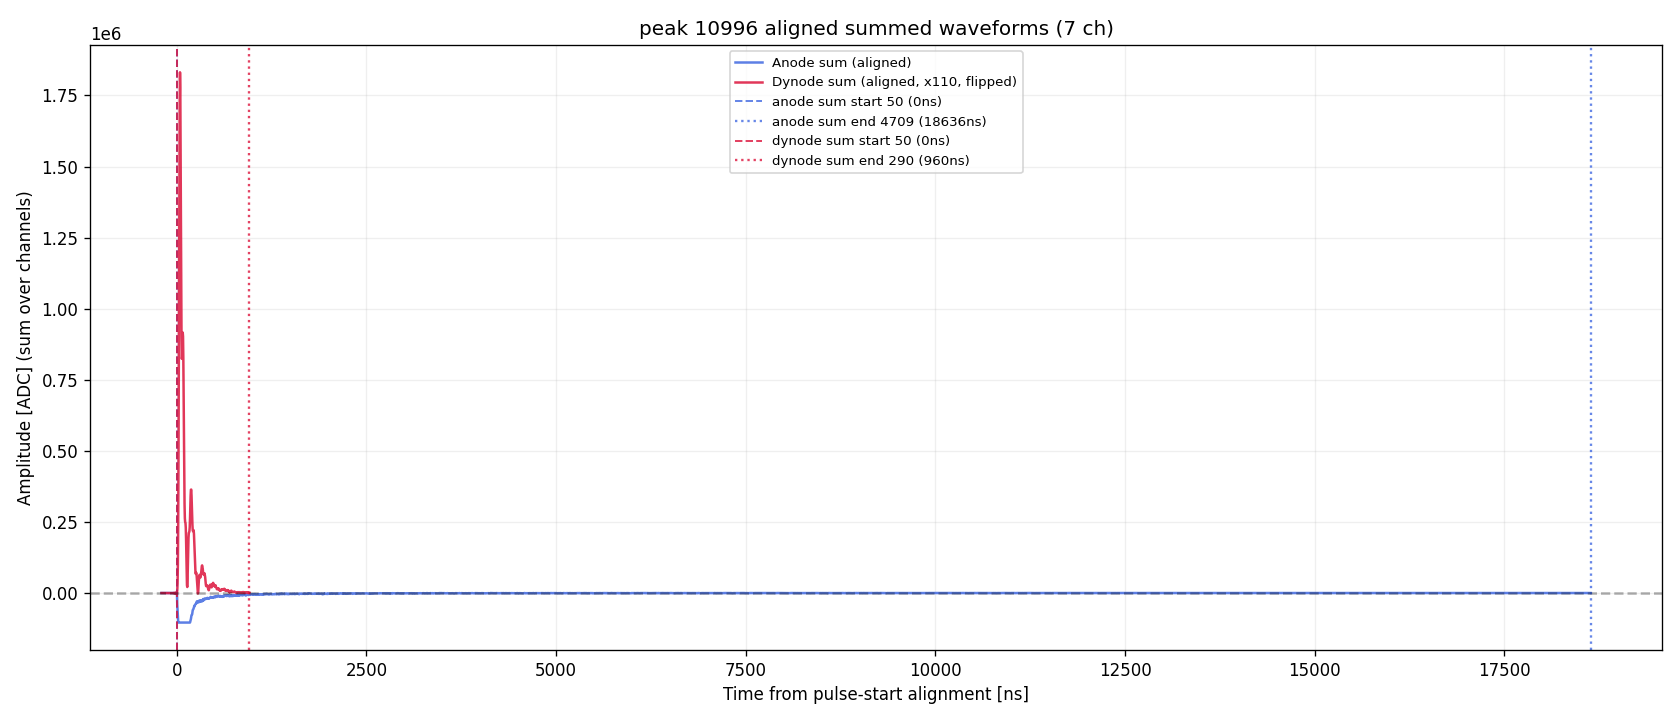
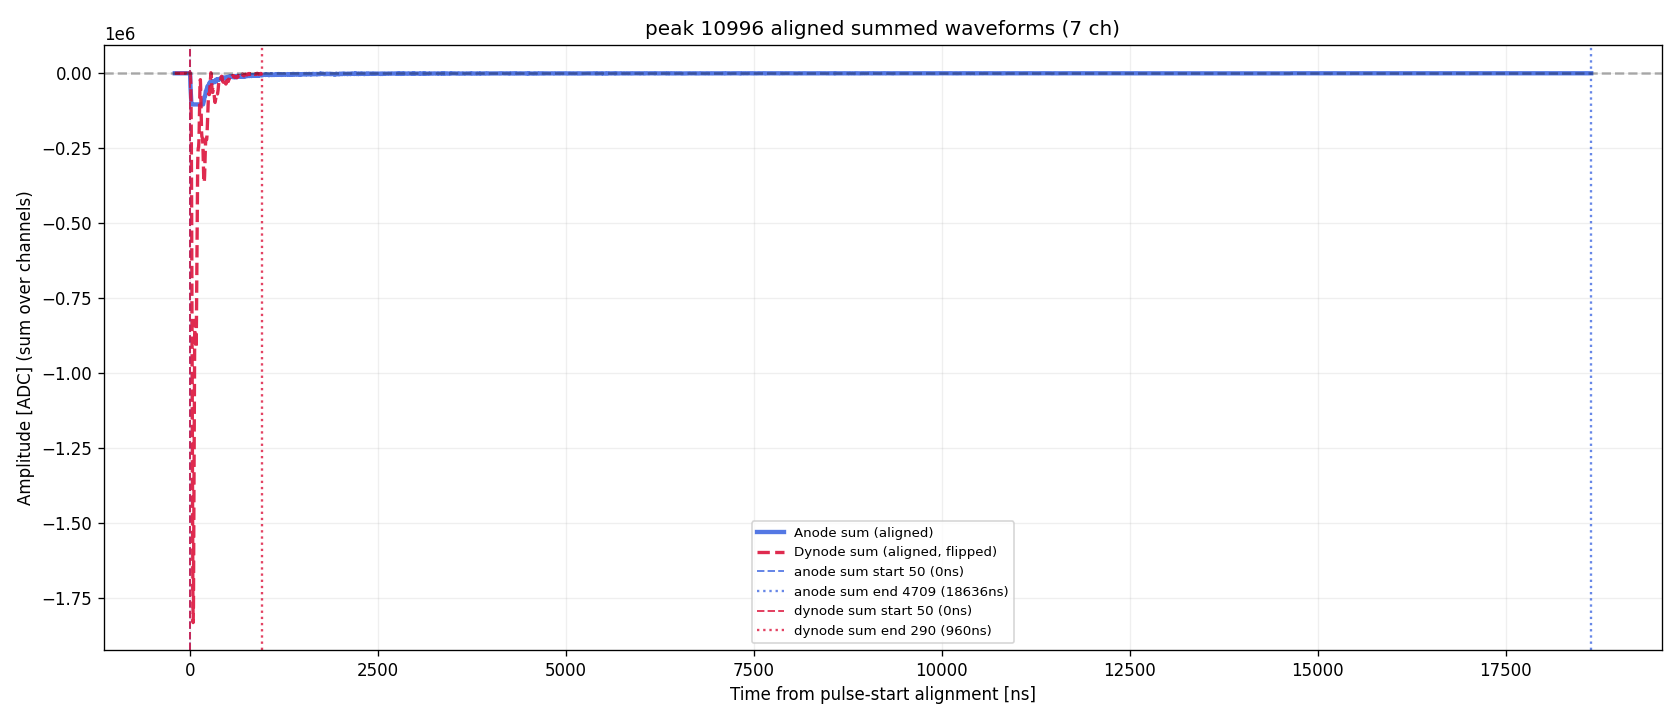
Plot: candidate sum waveforms - anode solid bold, dynode dashed flipped

diff --git a/src/muon_analysis/plotting/waveforms.py b/src/muon_analysis/plotting/waveforms.py
@@ -693,15 +693,16 @@ def plot_peak_sum_waveform(peak, anode_sum, dynode_sum, output_dir, run_id,
     path = plot_dir / f"peak{peak.peaks_id:03d}_sum_compare{suffix}_run_{run_id}.png"
 
     fig, ax = plt.subplots(figsize=(14, 6))
-    for arr, color, label in ((anode_sum, "royalblue", "Anode sum (aligned)"),
-                              (dynode_sum, "crimson",
-                               "Dynode sum (aligned, x110, flipped)")):
+    for arr, color, label, ls, lw in (
+            (anode_sum, "royalblue", "Anode sum (aligned)", "-", 2.6),
+            (dynode_sum, "crimson", "Dynode sum (aligned, flipped)", "--", 2.0)):
         if arr is None:
             continue
         if label.startswith("Dynode") and dynode_invert:
             arr = -arr
         x = (np.arange(len(arr)) - ref) * sample_interval_ns
-        ax.plot(x, arr, color=color, alpha=0.85, label=label)
+        ax.plot(x, arr, color=color, alpha=0.9, label=label,
+                linestyle=ls, linewidth=lw)
     if bounds:
         for side, (st, ed) in bounds.items():
             c = "royalblue" if side == "anode" else "crimson"
